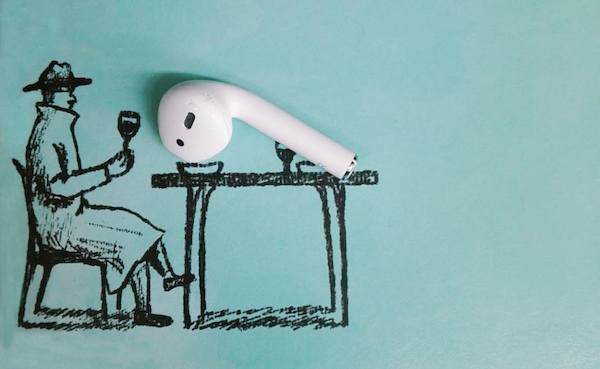
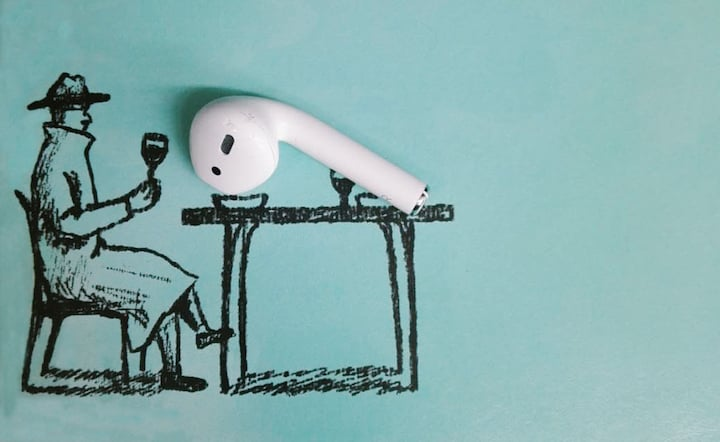
compress pictures

diff --git a/_posts/2018/2018-12-29-fortune.md b/_posts/2018/2018-12-29-fortune.md
@@ -14,4 +14,4 @@ tags: 运气 耳机
 
 在即将迎来新的一年的时刻，碰到这种事，实在有点晦气。我并不是迷信的人，但仍希望能看到好的预兆。
 
-<a data-fancybox href="https://i.imgur.com/Wn14UJ4.jpg" data-caption="My AirPods">![my airpods](/images/posts/myairpods.jpg)</a>
+![my airpods](/images/posts/myairpods.jpg)
